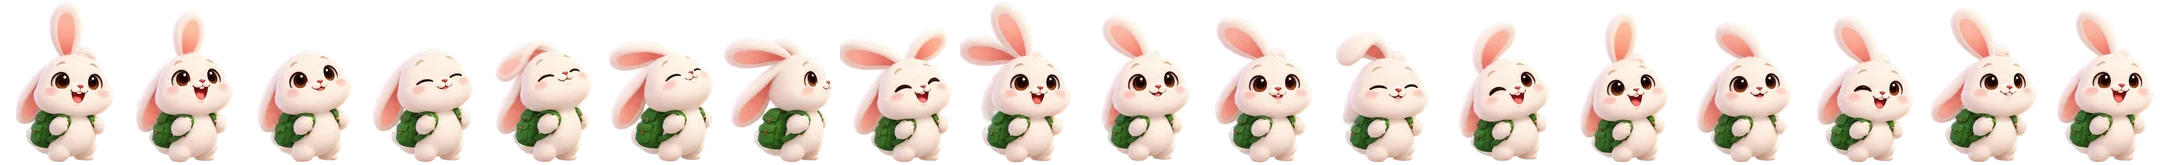
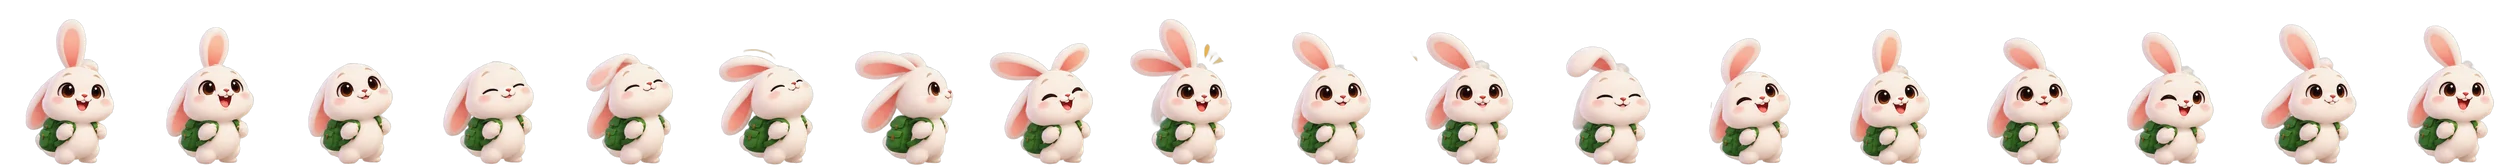
Give Kiko six mood animations
Extract the welcome, idle, thinking, correct, wrong and celebration
sprite sheets into uniform 250x300 strips with one shared script:
frames are split by geodesic segmentation, detached effects (sparkles,
question marks, tears) stay with their frame, each sheet is scaled by
body area so Kiko keeps one size, and each row keeps its own baseline
so jumps still jump.

A small player steps through a strip with WAAPI steps(n, jump-none)
and hands one-off moods back to idle. Welcome plays on the welcome
screen, thinking while a question waits for an answer, correct/wrong
on answering (in the coach and in the feedback sheet, which covers the
coach on phones), and celebration on the task-complete screen.
Replaces the CSS hop/wobble/cheer effects and the static hero image.

Claude-Session: https://claude.ai/code/session_01Y4obPKsdanywy9PkZUcdGC

Changed region(s): [[0.0, 0.0303, 1.0, 1.0]]

diff --git a/kiko/app.js b/kiko/app.js
@@ -170,26 +170,66 @@
   const CHEERS = ["Nice one!", "You got it!", "Brilliant!", "Hop hop, correct!", "Your brain just got stronger!", "Yes!"];
   const NUDGES = ["Almost! Mistakes help you remember.", "Good try. You'll see this one again.", "Getting it wrong first makes it stick better!"];
 
+  // mood: "correct" or "wrong" plays that reaction, then Kiko settles back down.
   function kikoSays(text, mood = "") {
     const k = $(".coach");
     if (!k) return;
-    const bubble = $(".bubble", k), img = $(".kiko-idle", k);
+    const bubble = $(".bubble", k);
     bubble.innerHTML = text;
-    [bubble, img].forEach((el) => el.classList.remove("pop", "hop", "wobble"));
-    void img.offsetWidth;
+    bubble.classList.remove("pop");
+    void bubble.offsetWidth;
     bubble.classList.add("pop");
-    if (mood) img.classList.add(mood);
+    if (mood) play($(".kiko", k), mood);
   }
-  // Kiko's idle loop: an 18-frame sprite strip stepped through with CSS.
-  const idle = (cls = "", big = false) =>
-    `<span class="kiko-idle ${cls}" role="img" aria-label="Kiko"><img src="assets/kiko-idle${big ? "" : "-sm"}.webp" alt=""></span>`;
-  const coach = (text) => `<div class="coach">${idle()}<div class="bubble">${text}</div></div>`;
 
-  // Feedback sheet that slides up from the bottom of the screen.
+  // ---------- Kiko sprite animations ----------
+  // Each mood is a horizontal strip of frames. Large strips exist for the
+  // moods shown on hero screens, small ones for the coach and the path.
+  const ANIMS = {
+    idle: { n: 18, fps: 6, loop: true },
+    welcome: { n: 21, fps: 9, then: "idle" },
+    thinking: { n: 26, fps: 7, loop: true },
+    correct: { n: 24, fps: 14, then: "idle" },
+    wrong: { n: 24, fps: 10, then: "idle" },
+    celebrate: { n: 22, fps: 10, loop: true },
+  };
+  const spriteSrc = (anim, big) => `assets/kiko-${anim}${big ? "" : "-sm"}.webp`;
+  const kiko = (anim, cls = "", big = false) =>
+    `<span class="kiko ${cls}" data-anim="${anim}" ${big ? "data-big" : ""} role="img" aria-label="Kiko"><img alt=""></span>`;
+  const coach = (text, anim = "idle") => `<div class="coach">${kiko(anim)}<div class="bubble">${text}</div></div>`;
+
+  // Step through a strip's frames; one-off moods hand back to `then` when done.
+  function play(el, anim) {
+    if (!el) return;
+    const a = ANIMS[anim], img = $("img", el);
+    el._anim?.cancel();
+    img.src = spriteSrc(anim, el.hasAttribute("data-big"));
+    img.style.width = `${a.n * 100}%`;
+    el._anim = img.animate(
+      [{ transform: "translateX(0)" }, { transform: `translateX(-${((a.n - 1) / a.n) * 100}%)` }],
+      { duration: (a.n / a.fps) * 1000, iterations: a.loop ? Infinity : 1, easing: `steps(${a.n}, jump-none)`, fill: "forwards" }
+    );
+    if (a.then) el._anim.onfinish = () => el.isConnected && play(el, a.then);
+  }
+  // Warm the cache so switching moods never flashes an empty frame.
+  window.addEventListener("load", () => {
+    ["idle", "thinking", "correct", "wrong"].forEach((m) => (new Image().src = spriteSrc(m, false)));
+    ["idle", "celebrate"].forEach((m) => (new Image().src = spriteSrc(m, true)));
+  });
+
+  // Feedback sheet that slides up from the bottom of the screen, with Kiko
+  // reacting in it (the sheet covers the coach on small screens).
+  function showSheet(html) {
+    sheetRoot.innerHTML = html;
+    $$(".kiko[data-anim]", sheetRoot).forEach((el) => play(el, el.dataset.anim));
+  }
   const sheet = (ok, title, body = "", btn = "Continue") => `
     <div class="fb sheet ${ok ? "ok" : "no"}" role="status">
       <div class="sheet-inner">
-        <div class="sheet-text"><b>${ok ? "✓" : "✕"} ${title}</b>${body ? `<p>${body}</p>` : ""}</div>
+        <div class="sheet-head">
+          ${kiko(ok ? "correct" : "wrong", "sheet-kiko")}
+          <div class="sheet-text"><b>${ok ? "✓" : "✕"} ${title}</b>${body ? `<p>${body}</p>` : ""}</div>
+        </div>
         <button class="btn" data-act="next">${btn}</button>
       </div>
     </div>`;
@@ -247,6 +287,7 @@
     if ("speechSynthesis" in window) speechSynthesis.cancel();
     app.innerHTML = html;
     sheetRoot.innerHTML = "";
+    $$(".kiko[data-anim]", app).forEach((el) => play(el, el.dataset.anim));
     app.classList.remove("enter");
     void app.offsetWidth;
     app.classList.add("enter");
@@ -258,7 +299,7 @@
   function showWelcome() {
     screen(`
       <section class="welcome">
-        <div class="hero-wrap">${idle("hero-idle", true)}</div>
+        <div class="hero-wrap">${kiko("welcome", "hero-sprite float", true)}</div>
         <h1>Hi, I'm <span class="brand">Kiko</span>!</h1>
         <p class="lead">I'll teach you a new language using <b>methods backed by learning science</b>, one small task at a time.</p>
         <h2>What do you want to learn?</h2>
@@ -314,7 +355,7 @@
             <button data-task="${i}" ${s === "locked" ? "disabled" : ""} aria-label="${esc(t.title)}">
               <span class="node-icon">${s === "done" ? "✓" : s === "locked" ? "🔒" : t.icon}</span>
             </button>
-            ${i === next ? idle("node-kiko") : ""}
+            ${i === next ? kiko("idle", "node-kiko") : ""}
             <div class="node-label"><b>${i + 1}. ${esc(t.title)}</b><small>${esc(t.technique)}</small></div>
           </li>`;
         }).join("")}
@@ -361,7 +402,7 @@
     gain(xp);
     screen(`
       <section class="done-screen">
-        <div class="hero-wrap"><img class="hero-kiko cheer" src="assets/kiko.png" alt="Kiko celebrating"></div>
+        <div class="hero-wrap">${kiko("celebrate", "hero-sprite", true)}</div>
         <h1>${title}</h1>
         <div class="stats">
           <div class="stat"><b class="count" data-n="${xp}">0</b><small>XP earned</small></div>
@@ -531,7 +572,7 @@
             : `<form id="typed"><input class="input big" id="ans" autocomplete="off" autocapitalize="off" spellcheck="false" placeholder="Type your answer"><button class="btn big">Check</button></form>`}
           <div id="fb"></div>
         </section>
-        ${coach(retried.has(q) ? "This one again. Try to recall it!" : "Try to answer <b>before</b> you look at the options.")}`);
+        ${coach(retried.has(q) ? "This one again. Try to recall it!" : "Try to answer <b>before</b> you look at the options.", "thinking")}`);
       bindQuit();
       if (q.say) { speak(q.say); $$("[data-act=say]").forEach((b) => b.addEventListener("click", () => speak(q.say))); }
       if (q.options) $$(".opt").forEach((b) => b.addEventListener("click", () => grade(b.dataset.o === q.answer, b)));
@@ -567,8 +608,8 @@
       }
       const reveal = q.kind === "toEn" || q.kind === "phrase" ? `${q.prompt} = ${q.answer}` : `${q.answer}${q.kind === "listen" ? ` = ${meaningOf(q.answer)}` : q.prompt ? ` = ${q.prompt}` : ""}`;
       const title = ok ? (combo >= 3 ? `${combo} in a row!` : one(["Correct!", "Nice!", "Great!"])) : "Not quite";
-      sheetRoot.innerHTML = sheet(ok, title, `${note ? `${note} ` : ""}${esc(reveal)}`);
-      kikoSays(ok ? one(CHEERS) : one(NUDGES), ok ? "hop" : "wobble");
+      showSheet(sheet(ok, title, `${note ? `${note} ` : ""}${esc(reveal)}`));
+      kikoSays(ok ? one(CHEERS) : one(NUDGES), ok ? "correct" : "wrong");
       if (!ok || q.kind === "type" || q.kind === "toTarget") speak(q.kind === "toEn" || q.kind === "phrase" ? q.prompt : q.answer);
       $("[data-act=next]").focus();
       $("[data-act=next]").addEventListener("click", () => {
@@ -688,7 +729,7 @@
         const said = e.results[0][0].transcript;
         const ok = similarity(said, target) >= 0.6;
         $("#fb").innerHTML = `<div class="fb inline ${ok ? "ok" : "no"}"><b>${ok ? "Sounds great!" : "Let's try once more"}</b><p>Kiko heard: “${esc(said)}”</p></div>`;
-        kikoSays(ok ? one(CHEERS) : "Listen again on 🐢 slow, then copy it.", ok ? "hop" : "wobble");
+        kikoSays(ok ? one(CHEERS) : "Listen again on 🐢 slow, then copy it.", ok ? "correct" : "wrong");
         if (ok) {
           gain(2); sfx.right(); confetti(18, centerOf(mic));
           const nb = $("[data-act=next]"); nb.textContent = "Next"; nb.classList.remove("ghost");
@@ -756,15 +797,15 @@
             <div class="options">${order.map(([o, k], j) => `<button class="opt" data-k="${k}" style="--i:${j}"><kbd>${j + 1}</kbd>${esc(o)}</button>`).join("")}</div>
             <div id="fb"></div>
           </section>
-          ${coach("Understanding the message is what matters most.")}`);
+          ${coach("Understanding the message is what matters most.", "thinking")}`);
         bindQuit();
         $$(".opt").forEach((b) => b.addEventListener("click", () => {
           const ok = +b.dataset.k === a;
           $$(".opt").forEach((x) => { x.disabled = true; if (+x.dataset.k === a) x.classList.add("right"); });
           if (ok) { right++; gain(2); sfx.right(); confetti(18, centerOf(b)); }
           else { b.classList.add("wrong"); sfx.wrong(); }
-          kikoSays(ok ? one(CHEERS) : one(NUDGES), ok ? "hop" : "wobble");
-          sheetRoot.innerHTML = sheet(ok, ok ? "Correct!" : "Not quite", ok ? "" : `Answer: ${esc(opts[a])}`);
+          kikoSays(ok ? one(CHEERS) : one(NUDGES), ok ? "correct" : "wrong");
+          showSheet(sheet(ok, ok ? "Correct!" : "Not quite", ok ? "" : `Answer: ${esc(opts[a])}`));
           $("[data-act=next]").focus();
           $("[data-act=next]").addEventListener("click", () => {
             if (++n < s.questions.length) show();
@@ -798,7 +839,7 @@
           <button class="btn big" data-act="check" disabled>Check</button>
           <div id="fb"></div>
         </section>
-        ${coach("Two of the tiles are decoys. Think about word order!")}`);
+        ${coach("Two of the tiles are decoys. Think about word order!", "thinking")}`);
       bindQuit();
       const line = $("#line"), check = $("[data-act=check]");
       const redraw = () => {
@@ -835,8 +876,8 @@
           sfx.wrong();
           line.classList.add("shake");
         }
-        sheetRoot.innerHTML = sheet(ok, ok ? "Perfect sentence!" : "Close! The answer is:", esc(target));
-        kikoSays(ok ? "Now read it out loud! 🗣" : "Look at where each word goes. Word order is the tricky part.", ok ? "hop" : "wobble");
+        showSheet(sheet(ok, ok ? "Perfect sentence!" : "Close! The answer is:", esc(target)));
+        kikoSays(ok ? "Now read it out loud! 🗣" : "Look at where each word goes. Word order is the tricky part.", ok ? "correct" : "wrong");
         speak(target);
         $("[data-act=next]").focus();
         $("[data-act=next]").addEventListener("click", () => {

diff --git a/kiko/styles.css b/kiko/styles.css
@@ -138,21 +138,16 @@ kbd {
 
 /* ---------- Kiko coach ---------- */
 .coach { display: flex; align-items: flex-end; gap: 10px; margin: 20px 0; }
-/* Idle sprite: an 18-frame strip shifted one frame at a time (6 fps). */
-.kiko-idle { display: inline-block; flex: none; overflow: hidden; aspect-ratio: 120 / 165; }
-.kiko-idle img { display: block; height: 100%; width: 1800%; max-width: none; animation: idle 3s steps(18) infinite; }
-@keyframes idle { to { transform: translateX(-100%); } }
-.coach .kiko-idle { width: 72px; filter: drop-shadow(0 4px 6px rgba(0,0,0,0.12)); transform-origin: 50% 100%; }
+/* Kiko sprite: a strip of 250×300 frames; app.js steps it one frame at a time. */
+.kiko { display: inline-block; flex: none; overflow: hidden; aspect-ratio: 5 / 6; }
+.kiko img { display: block; height: 100%; max-width: none; }
+.coach .kiko { width: 84px; filter: drop-shadow(0 4px 6px rgba(0,0,0,0.12)); }
 .bubble {
   position: relative; background: var(--surface); border: 2px solid var(--line);
   border-radius: 18px 18px 18px 4px; padding: 10px 14px; font-weight: 600;
   transform-origin: 0 100%;
 }
 .bubble.pop { animation: popIn 0.35s var(--spring); }
-.coach .kiko-idle.hop { animation: hop 0.6s ease; }
-.coach .kiko-idle.wobble { animation: wobble 0.5s ease; }
-@keyframes hop { 0%,100% { transform: translateY(0); } 40% { transform: translateY(-18px) rotate(-4deg); } 70% { transform: translateY(0) scale(1.06, 0.94); } }
-@keyframes wobble { 0%,100% { transform: rotate(0); } 25% { transform: rotate(-8deg); } 75% { transform: rotate(8deg); } }
 @keyframes float { 0%,100% { transform: translateY(0) rotate(0); } 50% { transform: translateY(-10px) rotate(-1.5deg); } }
 
 /* ---------- Welcome & celebrations ---------- */
@@ -164,10 +159,8 @@ kbd {
   animation: glow 3s ease-in-out infinite;
 }
 @keyframes glow { 0%,100% { transform: scale(0.95); opacity: 0.7; } 50% { transform: scale(1.08); opacity: 1; } }
-.hero-idle { width: min(220px, 60vw); animation: float 3s ease-in-out infinite; filter: drop-shadow(0 12px 18px rgba(0,0,0,0.12)); }
-.hero-kiko { width: min(260px, 70vw); height: auto; animation: float 3s ease-in-out infinite; filter: drop-shadow(0 12px 18px rgba(0,0,0,0.12)); }
-.hero-kiko.cheer { animation: cheer 0.8s var(--spring) 2, float 3s ease-in-out 1.6s infinite; }
-@keyframes cheer { 0%,100% { transform: translateY(0) scale(1); } 30% { transform: translateY(-30px) rotate(-6deg) scale(1.04); } 60% { transform: translateY(0) scale(1.08, 0.92); } }
+.hero-sprite { width: min(250px, 66vw); filter: drop-shadow(0 12px 18px rgba(0,0,0,0.12)); }
+.hero-sprite.float { animation: float 3s ease-in-out infinite; }
 .brand { color: var(--green); display: inline-block; animation: popIn 0.6s var(--spring) 0.2s backwards; }
 .lang-grid { display: grid; grid-template-columns: repeat(auto-fit, minmax(150px, 1fr)); gap: 12px; margin-top: 16px; }
 .lang-btn {
@@ -230,7 +223,7 @@ kbd {
 .node.current button { animation: pulse 1.8s infinite; }
 @keyframes pulse { 0%,100% { outline: 0 solid transparent; } 50% { outline: 7px solid color-mix(in srgb, var(--green) 30%, transparent); } }
 .node-kiko {
-  position: absolute; left: 38px; top: -34px; width: 46px; pointer-events: none;
+  position: absolute; left: 36px; top: -42px; width: 54px; pointer-events: none;
   filter: drop-shadow(0 3px 3px rgba(0,0,0,0.15));
   animation: popIn 0.5s var(--spring) 0.7s backwards, bob 1.4s ease-in-out 1.2s infinite;
 }
@@ -324,6 +317,8 @@ kbd {
 @keyframes sheetUp { from { transform: translateY(100%); } to { transform: none; } }
 .sheet-inner { max-width: 640px; margin: 0 auto; display: flex; flex-direction: column; gap: 12px; }
 .sheet-text b { font-size: 1.25rem; font-weight: 900; }
+.sheet-head { display: flex; align-items: flex-end; gap: 12px; }
+.sheet-kiko { width: 78px; margin: -46px 0 -4px; filter: drop-shadow(0 4px 6px rgba(0,0,0,0.15)); }
 .sheet .btn { width: 100%; padding: 14px; font-size: 1.05rem; }
 .fb.no .btn { background: var(--red); box-shadow: 0 4px 0 var(--red-dark); }
 .fb.no .btn:active { box-shadow: 0 1px 0 var(--red-dark); }
@@ -401,6 +396,4 @@ kbd {
 }
 @media (prefers-reduced-motion: reduce) {
   *, *::before, *::after { animation: none !important; transition: none !important; }
-  /* Kiko's idle loop only swaps frames in place (no movement), so keep it. */
-  .kiko-idle img { animation: idle 3s steps(18) infinite !important; }
 }

diff --git a/kiko/index.html b/kiko/index.html
@@ -11,7 +11,7 @@
   <link rel="preconnect" href="https://fonts.googleapis.com">
   <link rel="preconnect" href="https://fonts.gstatic.com" crossorigin>
   <link href="https://fonts.googleapis.com/css2?family=Nunito:wght@400;600;800;900&display=swap" rel="stylesheet">
-  <link rel="stylesheet" href="styles.css?v=5">
+  <link rel="stylesheet" href="styles.css?v=7">
 </head>
 <body>
   <header class="topbar">
@@ -22,7 +22,7 @@
   </header>
   <main id="app" class="app"></main>
   <div id="sheet"></div>
-  <script src="data.js?v=5"></script>
-  <script src="app.js?v=5"></script>
+  <script src="data.js?v=7"></script>
+  <script src="app.js?v=7"></script>
 </body>
 </html>

diff --git a/kiko/README.md b/kiko/README.md
@@ -23,7 +23,13 @@ Kiko is a language-learning web app that teaches you **how** to learn a language
 - **Audio.** Words and phrases are read aloud with the browser's built-in speech. Where the browser supports it (Chrome, Edge, Safari), you can also speak into the microphone to check your shadowing.
 - **Tap-to-translate story.** Tap any word for its meaning, or show the English for a whole sentence.
 - **Progress.** XP, a day streak and progress through the path are saved in your browser's `localStorage`.
-- **Kiko idles.** An 18-frame sprite loop (`assets/kiko-idle*.webp`) has Kiko blinking, winking and flopping their ears on the welcome screen, beside every hint and on the learning path.
+- **Kiko's moods.** Sprite animations in `assets/kiko-*.webp` bring Kiko to life:
+  - 👋 **Welcome**: peeks in, waves and opens the backpack (welcome screen), then idles.
+  - 🐰 **Idle**: blinks, winks and flops his ears (beside hints and on the path).
+  - 🤔 **Thinking**: tilts his head and scratches his chin while you answer.
+  - 🎉 **Correct**: jumps with sparkles and confetti.
+  - 🥺 **Wrong**: ears droop, then an encouraging smile.
+  - 🏆 **Celebration**: dances when you finish a lesson.
 - **Animations.** Flashcards flip in 3D, review cards fly off once rated, confetti bursts for right answers, wrong answers shake, sentence tiles glide into place, and Kiko hops along the path. If your device is set to reduce motion, everything except Kiko's in-place idle loop is switched off.
 - **Sound effects.** Short tones are generated in the browser, so there are no audio files. Tap 🔈 to mute.
 - **Keyboard shortcuts** (on computers): `1`–`4` pick an answer or a rating, `Space` flips a card, and `Enter` continues.
